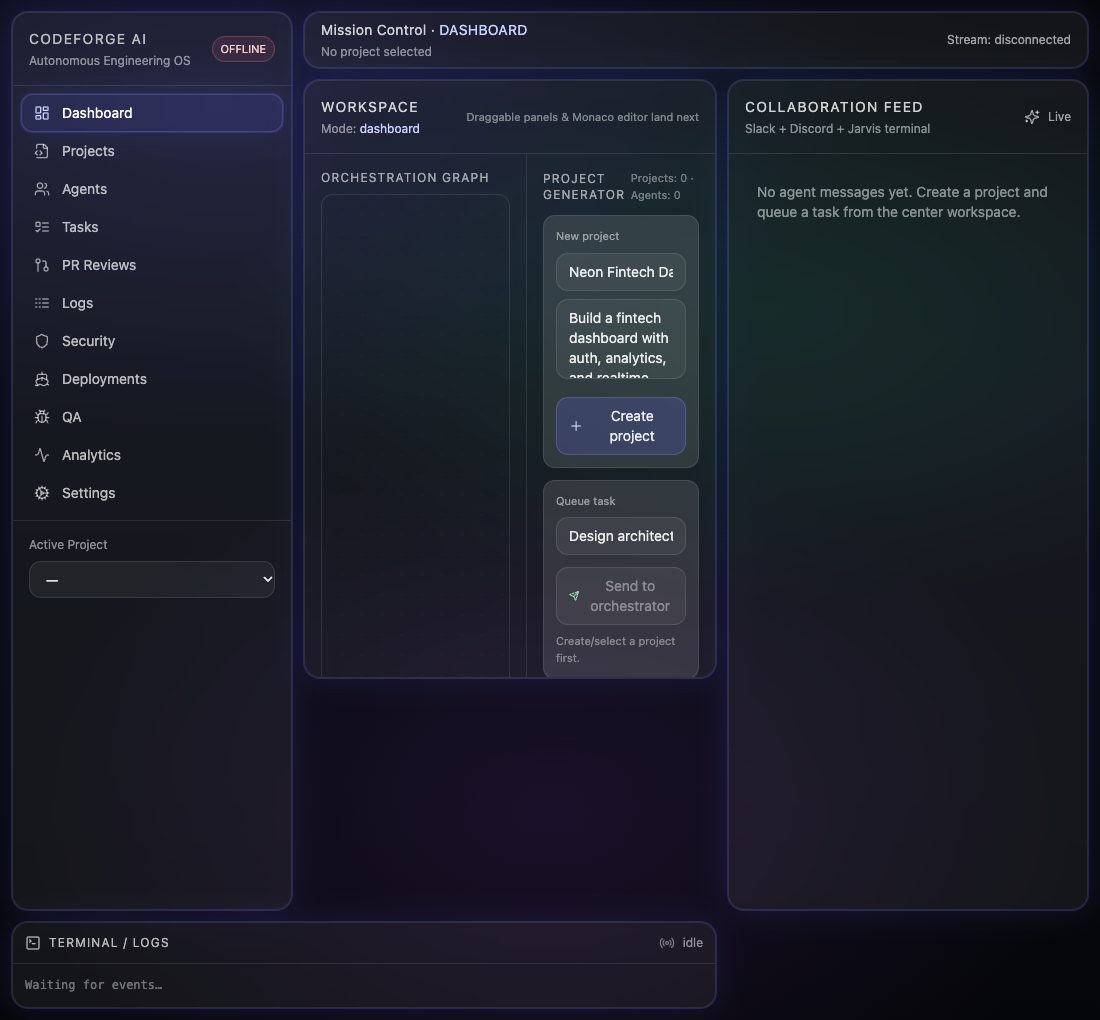
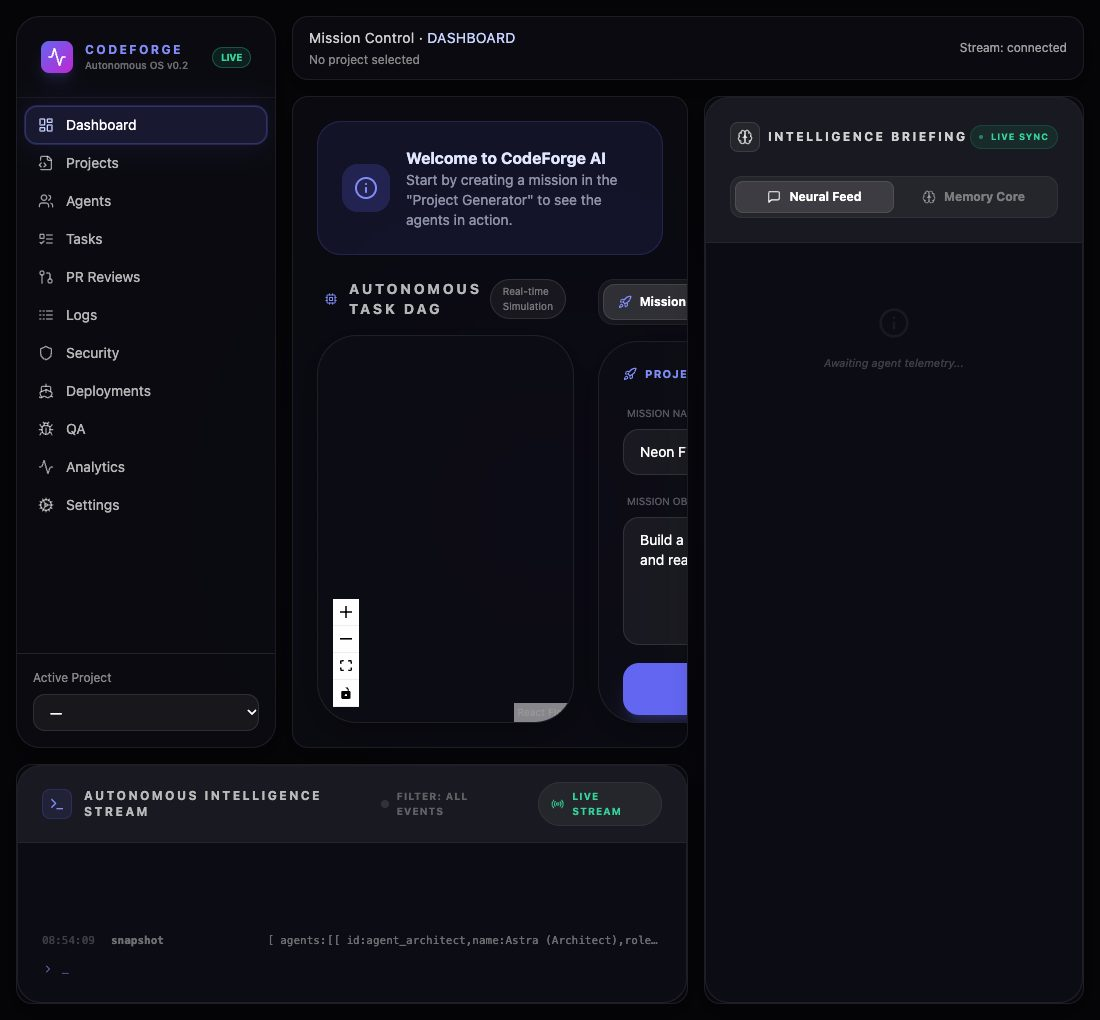
Amazon ML Challenge blog, team links, live demo screenshots, demo keep-alive

diff --git a/src/config-v3.ts b/src/config-v3.ts
@@ -174,7 +174,7 @@ export const config = {
             repoLink: "https://github.com/Samanyu-dev/stepsai", liveLink: "https://stepsai-smoky.vercel.app"
         },
         {
-            id: 12, title: "oracle-agent", category: "AI/ML", technologies: "Python, MCTS, RL", image: "/images/oracle_agent.png",
+            id: 12, title: "oracle-agent", category: "AI/ML", technologies: "Python, MCTS, RL", image: "/images/real/oracle-agent.jpg",
             description: "Grid navigating AI agent with A* pathfinding and Bayesian sensor fusion for partially observable environments.",
             repoLink: "https://github.com/Samanyu-dev/oracle-agent", liveLink: ""
         },
@@ -189,7 +189,7 @@ export const config = {
             repoLink: "https://github.com/Samanyu-dev/codeforge", liveLink: ""
         },
         {
-            id: 15, title: "crisis_comm_env", category: "AI/ML", technologies: "Python", image: "/images/crisis-com.png",
+            id: 15, title: "crisis_comm_env", category: "AI/ML", technologies: "Python", image: "/images/real/crisis-comm.jpg",
             description: "Multi-turn OpenEnv environment for training and evaluating agents on crisis communication.",
             repoLink: "https://github.com/Samanyu-dev/crisis_comm_env", liveLink: ""
         },
@@ -280,6 +280,34 @@ export const config = {
         }
     ],
     blogs: [
+        {
+            id: 6,
+            title: "Amazon ML Challenge 2026: 389th of 10,000+ Teams in Three Days",
+            date: "September 2026",
+            summary: "How team Fake Conquerors took a noisy multi-country entity-resolution problem from 0.9624 to 0.9864, caught our own leak, and read the data generator.",
+            content: `
+        <p>For three days in September, four of us (team <strong>Fake Conquerors</strong>: me, <a href="https://www.linkedin.com/in/himnish-lalchandani-29a453290/" target="_blank" rel="noopener noreferrer" style="color:#ff9e7a;text-decoration:underline">Himnish</a>, <a href="https://www.linkedin.com/in/sarkar-ankur" target="_blank" rel="noopener noreferrer" style="color:#ff9e7a;text-decoration:underline">Ankur</a> and <a href="https://www.linkedin.com/in/pranshu-suman-6b430a1a8/" target="_blank" rel="noopener noreferrer" style="color:#ff9e7a;text-decoration:underline">Pranshu</a>) lived inside one problem: take noisy business records from two messy sources and decide which ones belong to which real-world business, across the US, India and France. We finished <strong>389th out of 10,000+ teams</strong> (89k+ individuals registered) with a best public score of <strong>0.986382</strong>.</p>
+
+        <h3>The problem</h3>
+        <p>Each of 1.73 million reference businesses could have zero, one or many matching records, and the metric was macro F0.5 per business, so one wrong link hurts more than one missed link. Test also included France, which had no labelled training data at all, and about 40% of the candidate records were deliberate decoys: same name, different legal form, a nearby house number.</p>
+
+        <h3>Day 1: a baseline that works, then a decoder that can say no</h3>
+        <p>We started with lexical blocking (a C++ inverted index over name tokens, trigrams, address tokens and phonetic skeletons) feeding a CatBoost pair scorer. The first real gain was not a better model but a better decision rule: a per-business decoder that picks the set of matches with the best <em>expected</em> F0.5 and is allowed to return nothing. That took us to 0.9624. Better normalisation (legal forms, transliteration of Indian scripts, French and US address abbreviations), dense multilingual retrieval and 63 hand-built features took us to 0.972.</p>
+
+        <h3>Day 2: cross-encoders and the France problem</h3>
+        <p>We added fine-tuned multilingual-e5 cross-encoders that re-read only the uncertain cases (small on a Kaggle T4, large on an AWS A10G). With no French labels, we generated 600k pseudo-labels from our own confident French links, then a second, harder round. That lifted us to 0.9845, but one round hurt France, a reminder that pseudo-labels amplify their own mistakes. Our public score bounced around 0.984 to 0.985 for the rest of the day.</p>
+        <div style="margin: 30px 0;"><img src="/images/real/amazon-ml.png" alt="Public score climb" style="max-width: 100%%; border-radius: 12px; border: 1px solid rgba(255,255,255,0.1); box-shadow: 0 10px 30px rgba(0,0,0,0.5);" /></div>
+
+        <h3>Day 3: reading the data generator</h3>
+        <p>Two things changed the outcome. First, we noticed our stage 2 was leaking: we split folds by predicted anchor instead of true owner. Honest validation was 0.98841, lower than the number we had been quoting, so we froze uploads until a leak-free version was ready. Second, we stopped treating the data as natural and audited it as a <em>synthetic</em> dataset. Records with no detectable noise operation were already linked 99.7% correctly, so the remaining loss lived in specific operations. That produced a French acronym rule (a 2 to 4 letter name equal to the initials of a business at the same address, 99.98% precise) and a rescue path for Indian-script names with truncated addresses. Together with a meta-model on generator fingerprints, they took us to 0.986382.</p>
+
+        <h3>What did not work</h3>
+        <p>We measured and rejected a lot: seed ensembles (+0.000008), graph closure (-0.0011), mutual nearest neighbours (-0.0004), and a fine-tuned Qwen2.5-7B judge (AUC 0.69 versus 0.86 for the cross-encoders). Blank-address namesakes turned out to be unresolvable from the data: the best tie-break was no better than chance. Every one of these is logged with its measured result in the repo, so nobody has to re-try them.</p>
+
+        <h3>The team</h3>
+        <p>This was a real four-person effort and I'm grateful to <a href="https://www.linkedin.com/in/himnish-lalchandani-29a453290/" target="_blank" rel="noopener noreferrer" style="color:#ff9e7a;text-decoration:underline">Himnish</a>, <a href="https://www.linkedin.com/in/sarkar-ankur" target="_blank" rel="noopener noreferrer" style="color:#ff9e7a;text-decoration:underline">Ankur</a> and <a href="https://www.linkedin.com/in/pranshu-suman-6b430a1a8/" target="_blank" rel="noopener noreferrer" style="color:#ff9e7a;text-decoration:underline">Pranshu</a> for working through three intense days together. Catching our own validation leak and the push on France were team efforts.</p>
+        <p>Full experiment log, every score and the lessons are in the <a href="https://github.com/Samanyu-dev/amazon-ml-challenge-2026-entity-resolution" target="_blank" rel="noopener noreferrer" style="color:#ff9e7a;text-decoration:underline">GitHub repo</a>, and the day-by-day score timeline is on the <a href="/case-studies/amazon-ml-challenge-2026" style="color:#ff9e7a;text-decoration:underline">case study page</a>.</p>`
+        },
         {
             id: 5,
             title: "Synth: AI Data Layer for Endurance Sports",

diff --git a/src/data/case-studies.ts b/src/data/case-studies.ts
@@ -3,6 +3,7 @@ export type CaseStudy = {
   stats: { label: string; value: string }[];
   timeline?: { when: string; what: string; score?: string }[];
   sections: { heading: string; body: string }[];
+  team?: { name: string; url: string }[];
 };
 
 export const caseStudies: CaseStudy[] = [
@@ -12,6 +13,11 @@ export const caseStudies: CaseStudy[] = [
     result: "Rank 389 of 10,000+ teams (89k+ individuals registered)",
     summary: "Match noisy, multilingual business records to the right entity at scale. Metric: macro F0.5 per Source-1 entity. France was 15% of test and had no training labels.",
     repo: "https://github.com/Samanyu-dev/amazon-ml-challenge-2026-entity-resolution",
+    team: [
+      { name: "Himnish", url: "https://www.linkedin.com/in/himnish-lalchandani-29a453290/" },
+      { name: "Ankur", url: "https://www.linkedin.com/in/sarkar-ankur" },
+      { name: "Pranshu", url: "https://www.linkedin.com/in/pranshu-suman-6b430a1a8/" },
+    ],
     stats: [{ label: "Best public score", value: "0.986382" }, { label: "Final rank", value: "389" }, { label: "Teams", value: "10,000+" }, { label: "Days", value: "3" }],
     timeline: [
       { when: "Day 1 · v2 + decoder", what: "Lexical blocking + CatBoost; per-entity expected-F0.5 decoder that can predict no match.", score: "0.9624" },

diff --git a/src/app/case-studies/[slug]/page.tsx b/src/app/case-studies/[slug]/page.tsx
@@ -35,6 +35,13 @@ export default function CaseStudy({ params }: { params: { slug: string } }) {
           <a className="rounded-full bg-white px-4 py-1.5 font-semibold text-black" href={c.repo} target="_blank" rel="noopener noreferrer">GitHub</a>
           {c.link && <a className="rounded-full border border-white/30 px-4 py-1.5" href={c.link.href} target="_blank" rel="noopener noreferrer">{c.link.label}</a>}
         </div>
+        {c.team && (
+          <p className="mt-6 text-white/70">
+            Team Fake Conquerors: Samanyu, {c.team.map((t, i) => (
+              <span key={t.name}>{i > 0 && ", "}<a href={t.url} target="_blank" rel="noopener noreferrer" className="text-[var(--primary)] underline">{t.name}</a></span>
+            ))}
+          </p>
+        )}
         {c.timeline && (
           <section className="mt-12">
             <h2 className="mb-4 text-2xl font-medium">Score timeline</h2>
